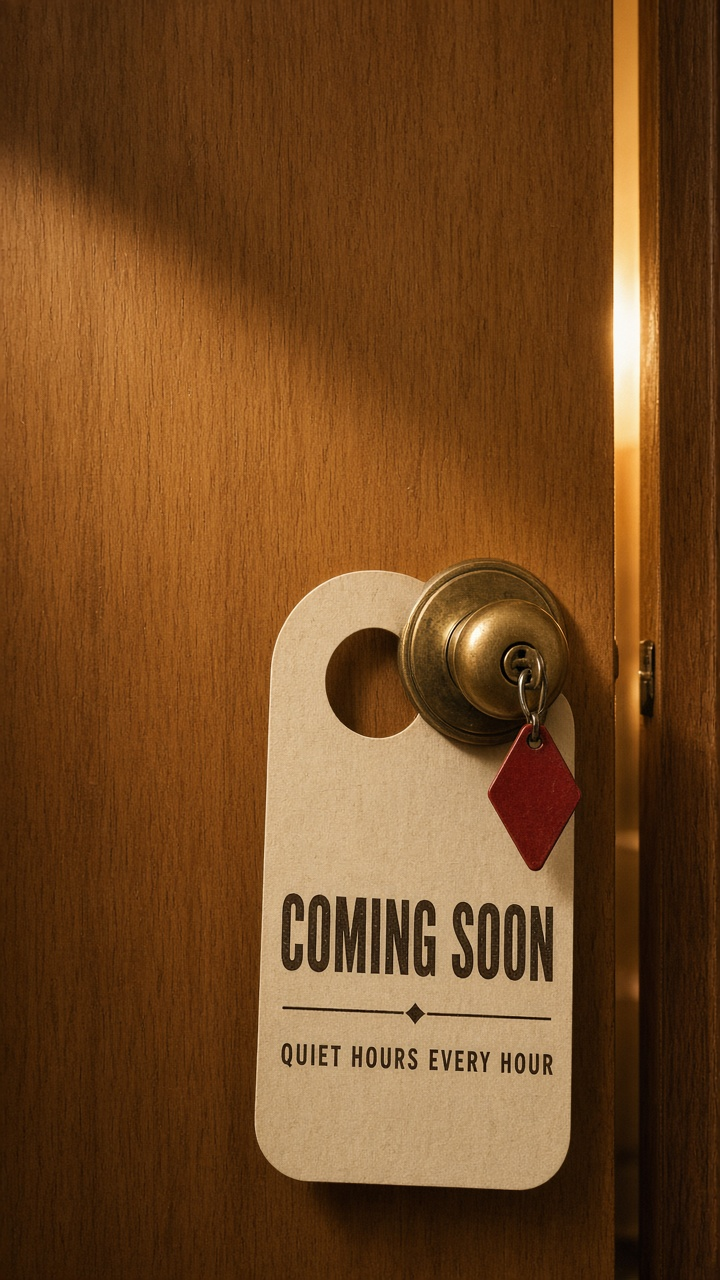
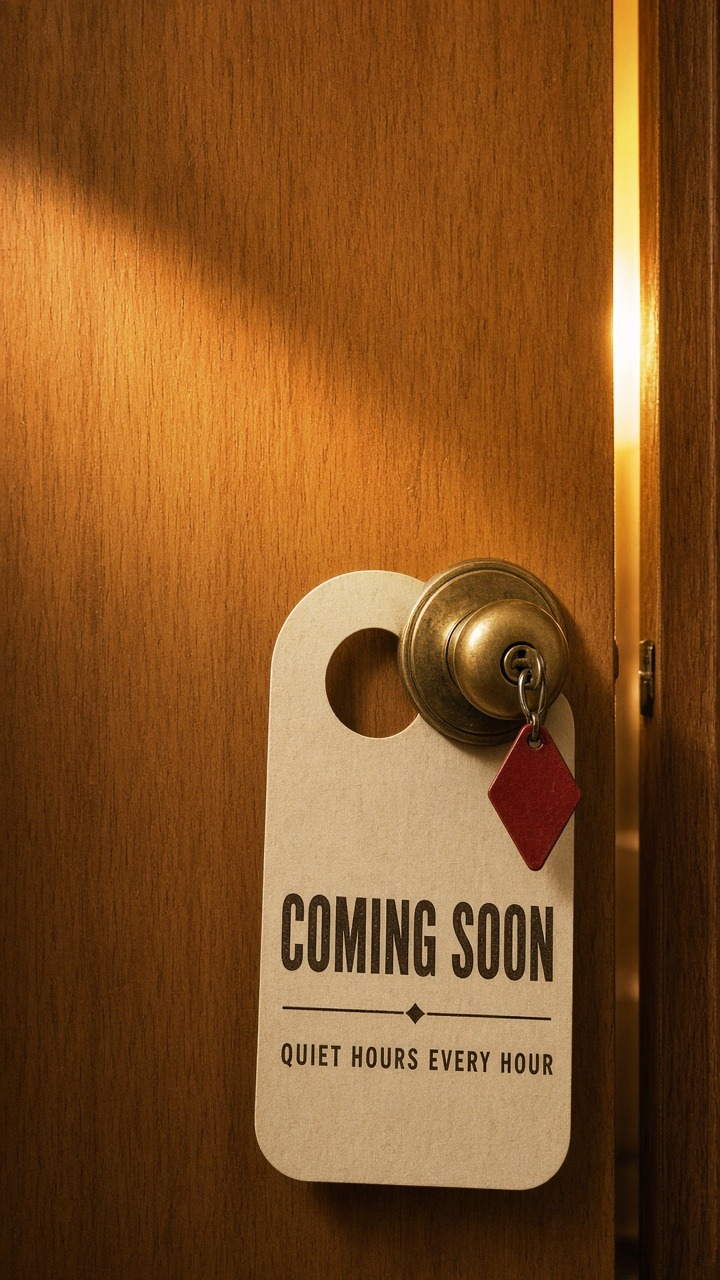
Bake light pool into door plate; remove mustard board

diff --git a/index.html b/index.html
@@ -57,17 +57,10 @@
     left:6%;top:30%;
     width:min(44%,620px);
   }
-  /* Mounted board: the lockup's native mustard ground, screwed to the door */
-  .plaque::before{
-    content:"";position:absolute;inset:-7% -6% -9%;
-    background:linear-gradient(180deg,#ffd968,#f2c14e 60%,#eda93a);
-    border:3px solid #2b1a12;border-radius:18px;
-    box-shadow:0 24px 44px rgba(29,16,10,.42), inset 0 1px 0 rgba(255,255,255,.55);
-    z-index:-1;
-  }
+  /* No board or glow: the light pool is baked into the door plate itself */
   .plaque img{
     display:block;width:100%;height:auto;
-    filter:drop-shadow(0 10px 16px rgba(29,16,10,.28));
+    filter:drop-shadow(0 18px 22px rgba(29,16,10,.42));
   }
 
   /* ---------- Socials / footer dock ---------- */
